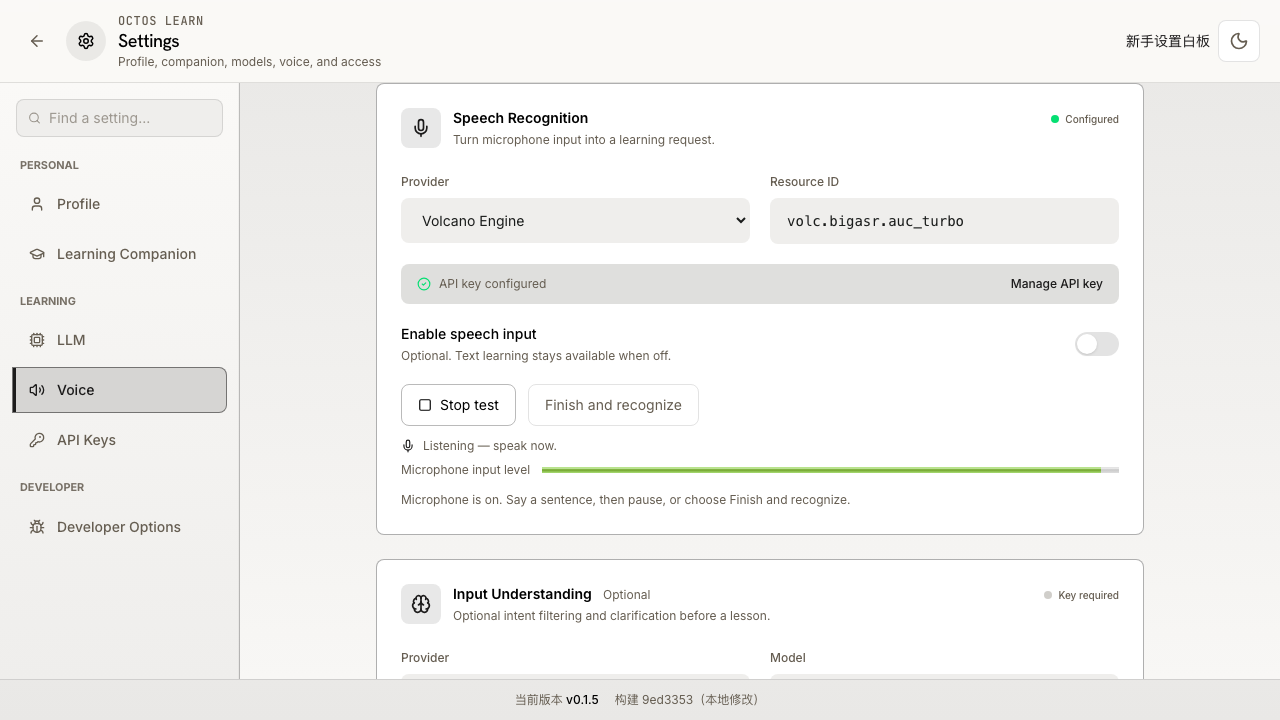
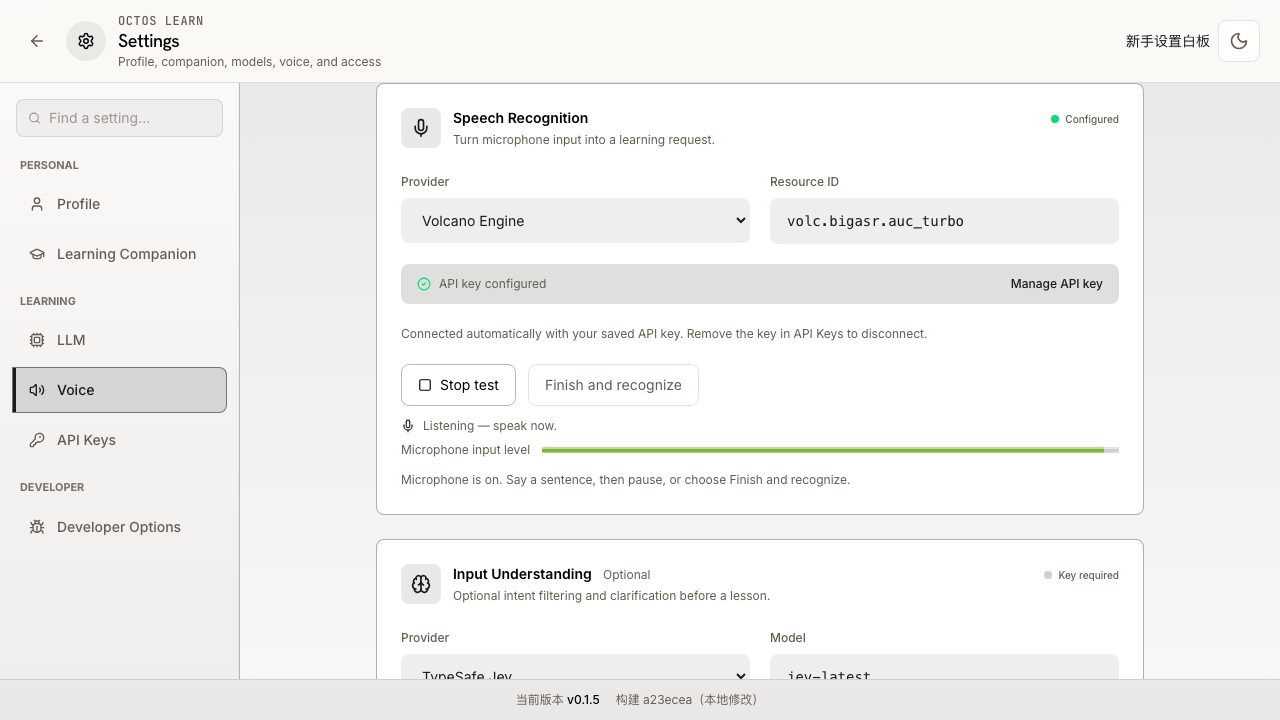
Connect BYOK services when credentials are saved

diff --git a/src/settings/voice-tab.tsx b/src/settings/voice-tab.tsx
@@ -7,13 +7,13 @@ import { formatSettingsError, type Profile } from "./settings-api";
 import { VolcanoVoiceSelect } from "./volcano-voice-select";
 import { VoiceServiceTest } from "./voice-service-test";
 
-interface ServiceForm { enabled: boolean; params: Record<string, string> }
+interface ServiceForm { params: Record<string, string> }
 type VoiceForm = Record<Capability, ServiceForm>;
 const icons = { tts: Volume2, asr: Mic, admission: Brain };
 const inputClass = "w-full rounded-xl bg-surface-container px-4 py-3 text-sm text-text placeholder-muted/50 outline-none border border-transparent focus:border-accent/30 disabled:opacity-50 transition";
 const labelClass = "mb-2 block text-xs font-medium text-muted";
 function serviceForm(capability: Capability, saved?: ServiceMetadata): ServiceForm {
-  return { enabled: supportsService(capability, saved) && !!saved?.enabled, params: serviceParams(capability, saved) };
+  return { params: serviceParams(capability, saved) };
 }
 function initialForm(metadata: ServiceMetadataMap): VoiceForm {
   return Object.fromEntries(SERVICE_CAPABILITIES.map(capability => [capability, serviceForm(capability, metadata[capability])])) as VoiceForm;
@@ -49,13 +49,12 @@ function VoiceEditor({ initialMetadata }: { initialMetadata: ServiceMetadataMap 
         const current = metadata[capability];
         const draft = form[capability];
         if (!supportsService(capability, current)) throw new Error(`Replace the ${SERVICE_DEFINITIONS[capability].title} credential in API Keys first.`);
-        if (draft.enabled && !current?.has_credential) throw new Error(`Add the ${SERVICE_DEFINITIONS[capability].keyLabel} in API Keys first.`);
-        if (draft.enabled && capability !== "admission" && !draft.params.resource_id.trim()) throw new Error("Enter an enabled resource ID before enabling speech.");
-        if (draft.enabled && capability === "tts" && !draft.params.voice.trim()) throw new Error("Enter a voice ID before enabling narration.");
+        if (current?.has_credential && capability !== "admission" && !draft.params.resource_id.trim()) throw new Error("Enter a resource ID for your speech service.");
+        if (current?.has_credential && capability === "tts" && !draft.params.voice.trim()) throw new Error("Choose a voice for narration.");
       }
       for (const capability of dirty) {
         const params = Object.fromEntries(Object.entries(form[capability].params).map(([name, value]) => [name, value.trim()]));
-        const next = await saveClientService(capability, { provider: SERVICE_DEFINITIONS[capability].provider, enabled: form[capability].enabled, params }, metadata[capability]?.revision);
+        const next = await saveClientService(capability, { provider: SERVICE_DEFINITIONS[capability].provider, enabled: !!metadata[capability]?.has_credential, params }, metadata[capability]?.revision);
         if (!next) throw new Error("Configuration changed. Reload the page before saving again.");
         const nextForm = serviceForm(capability, next);
         setMetadata(previous => ({ ...previous, [capability]: next }));
@@ -96,15 +95,10 @@ function VoiceEditor({ initialMetadata }: { initialMetadata: ServiceMetadataMap 
             <span className="flex items-center gap-2 text-xs text-muted">{hasKey ? <CheckCircle2 size={14} className="shrink-0 text-green-400" /> : <KeyRound size={14} className="shrink-0 text-amber-400" />}{hasKey ? "API key configured" : !compatible ? "Update the previous credential in API Keys" : "Add your own API key to connect"}</span>
             <a href="/settings?tab=api-keys#speech-services" className="text-xs font-medium text-accent hover:underline">{hasKey ? "Manage API key" : "Set up API key"}</a>
           </div>
-          <div className="flex items-center justify-between gap-4">
-            <div><p className="text-sm font-medium text-text-strong">{capability === "tts" ? "Enable narration" : capability === "asr" ? "Enable speech input" : "Enable input understanding"}</p><p className="mt-1 text-xs text-muted">{capability === "admission" ? "When off or unavailable, learning continues without Jev." : "Optional. Text learning stays available when off."}</p></div>
-            <button type="button" role="switch" aria-label={`Enable ${definition.title}`} aria-checked={draft.enabled} disabled={!hasKey}
-              onClick={() => update(capability, { enabled: !draft.enabled })}
-              className={`relative h-6 w-11 shrink-0 rounded-full transition disabled:opacity-30 ${draft.enabled ? "bg-accent" : "bg-border"}`}><span className={`absolute left-0.5 top-0.5 h-5 w-5 rounded-full bg-white shadow transition-transform ${draft.enabled ? "translate-x-5" : "translate-x-0"}`} /></button>
-          </div>
+          <p className="text-xs leading-5 text-muted">{hasKey ? "Connected automatically with your saved API key. Remove the key in API Keys to disconnect." : "Optional. Save your API key to connect; text learning remains available without it."}</p>
         </fieldset>
         <div className="mt-5"><VoiceServiceTest key={JSON.stringify([current?.revision, draft])} capability={capability}
-          draft={{ provider: definition.provider, enabled: draft.enabled, params: draft.params, revision: current?.revision ?? "draft", execution_target: "client" }} disabled={!hasKey || saving} /></div>
+          draft={{ provider: definition.provider, enabled: hasKey, params: draft.params, revision: current?.revision ?? "draft", execution_target: "client" }} disabled={!hasKey || saving} /></div>
       </section>;
     })}
     <div className="flex items-start gap-2 rounded-xl bg-surface-dark/50 px-4 py-3 text-xs leading-5 text-muted">

diff --git a/src/byok/service-settings.tsx b/src/byok/service-settings.tsx
@@ -36,7 +36,6 @@ function ServiceCard({ capability, collapsed, saved, onSaved }: { capability: Ca
     name === "auth_mode" ? "api-key" : saved?.provider === provider ? saved.params[name] ?? value : value,
   ])));
   const [key, setKey] = useState("");
-  const [enabled, setEnabled] = useState(saved?.enabled ?? capability !== "admission");
   const [busy, setBusy] = useState(false);
   const [message, setMessage] = useState("");
   const [audio, setAudio] = useState<Blob | null>(null);
@@ -58,8 +57,8 @@ function ServiceCard({ capability, collapsed, saved, onSaved }: { capability: Ca
   async function save() {
     setBusy(true); setMessage("");
     try {
-      if (needsNewKey && enabled && !key.trim()) { setMessage("请填写火山新版 API Key，旧凭据不能继续使用。"); return; }
-      await saveClientService(capability, { provider, enabled, params, key: key.trim() || (needsNewKey ? "" : undefined) }, saved?.revision);
+      if (needsNewKey && !key.trim()) { setMessage("请填写火山新版 API Key，旧凭据不能继续使用。"); return; }
+      await saveClientService(capability, { provider, enabled: !!key.trim() || !!saved?.has_credential, params, key: key.trim() || (needsNewKey ? "" : undefined) }, saved?.revision);
       setKey(""); setMessage("已保存；是否可用以当前设备真实测试为准。"); onSaved();
     } catch { setMessage("保存失败，请重新读取配置后重试；输入仍保留。不能用平台 Key 代替。"); }
     finally { setBusy(false); }
@@ -93,7 +92,7 @@ function ServiceCard({ capability, collapsed, saved, onSaved }: { capability: Ca
   }
   const field = (name: string, label: string) => <label className="block space-y-2" key={name}>{label}<input className={inputClass} value={params[name] ?? ""} onChange={event => { setParams(value => ({ ...value, [name]: event.target.value })); setMessage(""); setAudio(null); }} autoComplete="off" spellCheck={false} /></label>;
   const content = <div className="space-y-4">
-    <p>{capability === "admission" ? "帮助过滤无关口语、判断是否需要补充问题。未配置、关闭或不可用时跳过，其他能力照常工作。" : "可选；未配置时仍可继续文字学习。"}</p>
+    <p>{capability === "admission" ? "帮助过滤无关口语、判断是否需要补充问题。保存 Key 后自动使用；未配置或不可用时跳过，其他能力照常工作。" : "保存 Key 后自动使用；未配置时仍可继续文字学习。"}</p>
     <p>供应商：{capability === "admission" ? "TypeSafe Jev" : "火山引擎 · 新版 API Key"}</p>
     <p>{window.OctosNativeByok ? "本机通过原生网络直连供应商。" : "当前网页接口不支持所需跨域调用，将经服务器转发；语音录音和 Jev 输入会经过服务器。"}</p>
     {needsNewKey && <p role="alert">原供应商或旧版鉴权已不再支持，请填写火山新版 API Key 后保存。</p>}
@@ -102,8 +101,7 @@ function ServiceCard({ capability, collapsed, saved, onSaved }: { capability: Ca
     <label className="block space-y-2">API Key<input className={inputClass} type="password" autoComplete="new-password" spellCheck={false} value={key} onChange={event => setKey(event.target.value)} placeholder={saved?.has_credential && saved.provider === provider && !needsNewKey ? "本人凭据已保存；留空保留" : "粘贴你自己的 Key"} /></label>
     {provider === "volcano" && <p>请使用豆包语音控制台的新版 API Key；火山方舟 Ark / 大模型 Key 和旧版 Access Token 不能用于语音服务。</p>}
     <p>凭据保存在 Octos 账号中，按用途同步到本人设备；退出会清理本机会话缓存。<a href={SERVICE_DEFINITIONS[capability].consoleUrl} target="_blank" rel="noreferrer">打开供应商控制台</a></p>
-    <label><input type="checkbox" checked={enabled} onChange={event => setEnabled(event.target.checked)} /> 启用此能力</label>
-    <p role="status">{saved && !saved.enabled ? "账号已保存，当前已停用。" : status.detail}</p>
+    <p role="status">{saved?.has_credential && !needsNewKey ? "本人 Key 已保存，服务已连接；无需额外启用。" : status.detail}</p>
     <div className="flex flex-wrap gap-3">
       <button disabled={busy} onClick={() => void save()}>保存配置</button>
       {capability !== "asr" && <button disabled={busy} onClick={() => void test()}>{busy ? "测试中…" : capability === "tts" ? "测试草稿并试听" : "测试 Jev 草稿"}</button>}

diff --git a/tests/voice-settings.spec.ts b/tests/voice-settings.spec.ts
@@ -55,7 +55,7 @@ async function mockVoiceAccount(page: Page, initial: Record<string, Service> = {
   return { services, writes, relay };
 }
 
-test("configures Voice through Learning and API Keys without implicit tests or activation", async ({ page }) => {
+test("saving a key connects Voice without another switch or an implicit supplier test", async ({ page }) => {
   const { services, writes, relay } = await mockVoiceAccount(page);
   await page.goto("/settings?tab=voice");
   const tts = page.getByRole("region", { name: "Text to Speech" });
@@ -74,7 +74,7 @@ test("configures Voice through Learning and API Keys without implicit tests or a
   await page.getByRole("button", { name: "Save Changes" }).click();
   await expect(page.getByRole("button", { name: "Saved" })).toBeVisible();
   expect(writes).toHaveLength(2); expect(relay).toHaveLength(0);
-  expect(services.tts.enabled).toBe(false); expect(services.admission.enabled).toBe(false);
+  expect(services.tts.enabled).toBe(true); expect(services.admission.enabled).toBe(true);
   expect(await page.getByLabel("Volcano TTS API Key").inputValue()).toBe("••••••••");
   await keys.scrollIntoViewIfNeeded();
   await page.screenshot({ path: "docs/byok-migration-2026-10-19/voice-api-keys-desktop.png" });
@@ -84,7 +84,7 @@ test("configures Voice through Learning and API Keys without implicit tests or a
   await expect(tts.getByLabel("Voice ID", { exact: true })).toBeEnabled();
   await expect(tts.getByRole("option", { name: "Vivi 2.0", exact: true })).toHaveCount(1);
   await tts.getByLabel("Voice ID", { exact: true }).selectOption("zh_female_vv_uranus_bigtts");
-  await tts.getByRole("switch").check();
+  await expect(tts.getByRole("switch")).toHaveCount(0);
   await page.getByRole("button", { name: "Save Changes" }).click();
   await expect(page.getByRole("button", { name: "Saved" })).toBeVisible();
   expect(writes).toHaveLength(3);
@@ -96,7 +96,7 @@ test("configures Voice through Learning and API Keys without implicit tests or a
   await jev.getByRole("button", { name: "Test connection" }).click();
   await expect(jev.getByText("Jev connected successfully.")).toBeVisible();
   expect(relay).toHaveLength(1);
-  expect(services.admission.enabled).toBe(false);
+  expect(services.admission.enabled).toBe(true);
   expect(writes).toHaveLength(3);
   await page.setViewportSize({ width: 390, height: 844 });
   await tts.scrollIntoViewIfNeeded();
@@ -109,6 +109,23 @@ test("configures Voice through Learning and API Keys without implicit tests or a
 
 
 test.describe("browser microphone runtime", () => {
+
+  test("a saved ASR key opens whiteboard voice even with a legacy off flag", async ({ page }) => {
+    const { relay } = await mockVoiceAccount(page, { asr: { provider: "volcano", enabled: false, key: "synthetic-asr-key", revision: "r1", execution_target: "client", params: { auth_mode: "api-key", resource_id: "volc.bigasr.auc_turbo" } } });
+    await page.addInitScript(() => {
+      localStorage.setItem("octos-learn:setup-skipped:learner", "yes");
+      const state = window as unknown as { openedServiceSetup: boolean };
+      state.openedServiceSetup = false;
+      window.addEventListener("octos:configure-service", () => { state.openedServiceSetup = true; });
+    });
+    const synced = page.waitForResponse(response => new URL(response.url()).pathname === "/api/my/client-services/sync");
+    await page.goto("/board?new-board=1"); await synced;
+    await page.getByRole("button", { name: "启用语音", exact: true }).first().click();
+    await expect(page.getByRole("button", { name: "关闭语音", exact: true }).first()).toBeVisible();
+    expect(await page.evaluate(() => (window as unknown as { openedServiceSetup: boolean }).openedServiceSetup)).toBe(false);
+    await page.getByRole("button", { name: "关闭语音", exact: true }).first().click();
+    expect(relay).toHaveLength(0);
+  });
 
   test("initializes the real ONNX/worklet runtime and releases a synthetic microphone", async ({ page }) => {
     const { relay } = await mockVoiceAccount(page, { asr: { provider: "volcano", enabled: false, key: "synthetic-asr-key", revision: "r1", execution_target: "client", params: { auth_mode: "api-key", resource_id: "volc.bigasr.auc_turbo" } } });

diff --git a/src/settings/voice-tab.test.tsx b/src/settings/voice-tab.test.tsx
@@ -36,7 +36,7 @@ describe("BYOK voice settings", () => {
     show(); const region = await screen.findByRole("region", { name: "Text to Speech" });
     fireEvent.change(within(region).getByLabelText("Custom Voice ID"), { target: { value: "new-voice" } });
     fireEvent.click(screen.getByRole("button", { name: "Save Changes" }));
-    await waitFor(() => expect(state.save).toHaveBeenCalledWith("tts", { provider: "volcano", enabled: false, params: { auth_mode: "api-key", resource_id: "seed-tts-2.0", voice: "new-voice" } }, "r1"));
+    await waitFor(() => expect(state.save).toHaveBeenCalledWith("tts", { provider: "volcano", enabled: true, params: { auth_mode: "api-key", resource_id: "seed-tts-2.0", voice: "new-voice" } }, "r1"));
     expect(state.save).toHaveBeenCalledOnce();
     await screen.findByRole("button", { name: "Saved" });
     expect(state.synthesize).not.toHaveBeenCalled(); expect(state.mic).not.toHaveBeenCalled();
@@ -49,12 +49,13 @@ describe("BYOK voice settings", () => {
     expect(screen.getByRole("button", { name: "Save Changes" })).toHaveProperty("disabled", true);
     expect(state.save).not.toHaveBeenCalled();
   });
-  it("can explicitly test a disabled service without saving or enabling it", async () => {
+  it("uses a previously saved key without an activation switch and keeps tests separate from saving", async () => {
     show(); const region = await screen.findByRole("region", { name: "Text to Speech" });
     fireEvent.click(within(region).getByRole("button", { name: "Test voice" }));
     await screen.findByText("Voice synthesized and played successfully.");
     expect(state.synthesize.mock.calls[0][2]).toMatchObject({ key: "synthetic-own-key", enabled: true });
-    expect(within(region).getByRole("switch").getAttribute("aria-checked")).toBe("false");
+    expect(within(region).queryByRole("switch")).toBeNull();
+    expect(within(region).getByText(/Connected automatically/)).toBeTruthy();
     expect(state.save).not.toHaveBeenCalled();
   });
   it("preserves unsaved parameters after a failed test", async () => {
@@ -75,10 +76,10 @@ describe("BYOK voice settings", () => {
     fireEvent.change(within(region).getByLabelText("Custom Voice ID"), { target: { value: "another-voice" } });
     expect(signal?.aborted).toBe(true);
   });
-  it("keeps tests and activation disabled without an API Key", async () => {
+  it("keeps paid tests unavailable until an API Key is saved", async () => {
     state.list.mockResolvedValue({ profile_id: "alice", services: {} }); show();
     const region = await screen.findByRole("region", { name: "Text to Speech" });
-    expect(within(region).getByRole("switch")).toHaveProperty("disabled", true);
+    expect(within(region).queryByRole("switch")).toBeNull();
     expect(within(region).getByRole("button", { name: "Test voice" })).toHaveProperty("disabled", true);
     expect(within(region).getByRole("link", { name: "Set up API key" })).toBeTruthy();
   });

diff --git a/src/byok/services.ts b/src/byok/services.ts
@@ -66,7 +66,7 @@ export function getService(capability: Capability): ClientService | undefined {
 }
 export function getServiceStatus(capability: Capability): CapabilityStatus {
   ensureIdentity();
-  return states[capability] ?? { state: "unconfigured", detail: `${names[capability]}尚未启用，可在设置中连接本人服务或启用已保存配置。` };
+  return states[capability] ?? { state: "unconfigured", detail: `${names[capability]}尚未配置，请在设置中保存本人服务 Key。` };
 }
 export function setLessonConfigured(value: boolean): void { ensureIdentity(); lessonConfigured = value; emit(); }
 export function getLessonConfigured(): boolean | undefined { ensureIdentity(); return lessonConfigured; }
@@ -89,15 +89,19 @@ export function prepareClientServices(force = false): Promise<void> {
       for (const capability of ["asr", "tts", "admission"] as const) {
         const value = snapshots[capability];
         const old = states[capability];
-        if (!value?.key || !value.enabled) { delete snapshots[capability]; delete states[capability]; }
-        else if (!old || previous[capability]?.revision !== value.revision) states[capability] = { state: "configured_unverified", detail: "账号已配置，此设备尚未验证。" };
+        if (!value?.key?.trim()) { delete snapshots[capability]; delete states[capability]; }
+        else {
+          // Key presence is the activation intent, including previously saved/off records.
+          snapshots[capability] = { ...value, enabled: true };
+          if (!old || previous[capability]?.revision !== value.revision) states[capability] = { state: "configured_unverified", detail: "账号已配置，此设备尚未验证。" };
+        }
       }
       emit();
     }).finally(() => { clearTimeout(timeout); if (pending === task) pending = undefined; });
   pending = task;
   return task;
 }
-/** Explicit settings test only. Disabled credentials never enter the active snapshot. */
+/** Explicit settings tests can use saved credentials without persisting test parameters. */
 export async function getServiceForTest(capability: Capability, signal: AbortSignal, expectedRevision?: string): Promise<ClientService | undefined> {
   const owner = identity();
   const cached = getService(capability);

diff --git a/src/settings/api-keys-tab.tsx b/src/settings/api-keys-tab.tsx
@@ -235,7 +235,7 @@ export function ApiKeysTab({ profile, onProfileUpdated }: ApiKeysTabProps) {
         const key = (serviceValues[capability] ?? "").trim();
         const next = await saveClientService(capability, {
           provider: SERVICE_DEFINITIONS[capability].provider,
-          enabled: !!key && supportsService(capability, current) && !!current?.enabled,
+          enabled: !!key,
           params: serviceParams(capability, current), key,
         }, current?.revision);
         if (!next) throw new Error(`Reload ${SERVICE_DEFINITIONS[capability].title} before saving again.`);
@@ -305,7 +305,7 @@ export function ApiKeysTab({ profile, onProfileUpdated }: ApiKeysTabProps) {
                     onChange={value => { setServiceValues(previous => ({ ...previous, [capability]: value })); setSaved(false); setError(null); }} />
                   {capability !== "admission" && <p className="mt-2 px-1 text-xs leading-5 text-muted">Use an API Key from the Doubao Speech console. An Ark / LLM API Key or a legacy Access Token cannot be used here. The same Speech Key can be entered for TTS and ASR if both services are enabled in its project.</p>}
                   <div className="mt-2 flex flex-wrap items-center justify-between gap-2 px-1 text-xs text-muted">
-                    <span>{!supportsService(capability, current) ? "Replace the previous credential with a new Volcano API Key." : "Leave unchanged to keep. Clear and save to remove and disable this service."}</span>
+                    <span>{!supportsService(capability, current) ? "Replace the previous credential with a new Volcano API Key." : "Save a key to connect automatically. Leave unchanged to keep. Clear and save to disconnect."}</span>
                     <a className="inline-flex items-center gap-1 text-accent hover:underline" href={definition.consoleUrl} target="_blank" rel="noreferrer">Get API Key <ExternalLink size={11} /></a>
                   </div>
                 </div>;

diff --git a/src/byok/services.test.ts b/src/byok/services.test.ts
@@ -54,11 +54,18 @@ describe("owner-scoped client snapshots", () => {
     expect(getService("tts")?.key).toBe("alice-own-key");
   });
 
-  it("excludes disabled credentials from runtime but allows an explicit settings test", async () => {
+  it("connects saved keys even when an older server reports an off flag", async () => {
     const value = configured(); value.services.tts.enabled = false;
     api.request.mockResolvedValue(value); await prepareClientServices();
-    expect(getService("tts")).toBeUndefined();
+    expect(getService("tts")).toMatchObject({ key: "alice-own-key", enabled: true });
     expect((await getServiceForTest("tts", new AbortController().signal))?.key).toBe("alice-own-key");
+    expect(getServiceStatus("tts").state).toBe("configured_unverified");
+    expect(api.request).toHaveBeenCalledOnce();
+  });
+  it("disconnects an empty key even when an older server reports an on flag", async () => {
+    api.request.mockResolvedValue(configured()); await prepareClientServices();
+    expect(getService("tts")?.key).toBe("alice-own-key");
+    api.request.mockResolvedValue(configured("")); await prepareClientServices(true);
     expect(getService("tts")).toBeUndefined();
     expect(getServiceStatus("tts").state).toBe("unconfigured");
   });

diff --git a/src/settings/api-keys-tab.test.tsx b/src/settings/api-keys-tab.test.tsx
@@ -133,12 +133,12 @@ describe("ApiKeysTab", () => {
     expect("OPENAI_API_KEY" in patch.env_vars).toBe(false);
     expect(patch.env_vars.SERPER_API_KEY).toBe("se***er");
   });
-  it("saves speech keys separately from env vars without automatically enabling a service", async () => {
+  it("saving a speech key connects the service without changing model env vars", async () => {
     render(<ApiKeysTab profile={baseProfile} onProfileUpdated={() => {}} />);
     const input = await screen.findByLabelText("Volcano TTS API Key");
     fireEvent.change(input, { target: { value: "synthetic-own-speech-key" } });
     fireEvent.click(screen.getByRole("button", { name: "Save Changes" }));
-    await waitFor(() => expect(serviceMocks.save).toHaveBeenCalledWith("tts", expect.objectContaining({ provider: "volcano", key: "synthetic-own-speech-key", enabled: false }), undefined));
+    await waitFor(() => expect(serviceMocks.save).toHaveBeenCalledWith("tts", expect.objectContaining({ provider: "volcano", key: "synthetic-own-speech-key", enabled: true }), undefined));
     await screen.findByRole("button", { name: "Saved" });
     expect(input).toHaveProperty("value", "••••••••");
     expect(apiMocks.updateMyProfileConfig).not.toHaveBeenCalled();

diff --git a/tests/byok-settings.spec.ts b/tests/byok-settings.spec.ts
@@ -32,7 +32,7 @@ test("saves optional BYOK services without requesting platform grants or paid te
   await tts.getByLabel("API Key").fill("synthetic-byok-canary");
   await tts.getByRole("button", { name: "保存配置" }).click();
   await expect.poll(() => writes.length).toBe(1);
-  expect(writes[0]).toMatchObject({ provider: "volcano", key: "synthetic-byok-canary", expected_revision: null });
+  expect(writes[0]).toMatchObject({ provider: "volcano", key: "synthetic-byok-canary", enabled: true, expected_revision: null });
   await page.setViewportSize({ width: 960, height: 540 });
   await page.screenshot({ path: "docs/byok-migration-2026-10-19/onboarding-960x540.png", fullPage: true });
   expect(forbidden).toEqual([]); expect(paid).toEqual([]);

diff --git a/docs/FULL_BYOK_IMPLEMENTATION_STATUS.md b/docs/FULL_BYOK_IMPLEMENTATION_STATUS.md
@@ -10,13 +10,13 @@
 
 ## 已实现
 
-1. Octos 新增 `/api/my/client-services` 管理面：分别保存 ASR、TTS、可选 Jev 的供应商、参数、启用状态、版本及本人 Key。普通读取只返回凭据存在状态；显式 POST sync 才返回当前身份用于客户端执行的本人凭据，不导出模型环境变量、不继承平台 / 父账号凭据。变更要求匹配版本，避免旧表单覆盖新配置。
+1. Octos 新增 `/api/my/client-services` 管理面：分别保存 ASR、TTS、可选 Jev 的供应商、参数、版本及本人 Key。有 Key 即接入，enabled 仅为兼容派生字段；旧的已保存 / 未启用记录读取时直接兼容，不修改 Key、参数或版本。普通读取只返回凭据存在状态；显式 POST sync 才返回当前身份用于客户端执行的本人凭据，不导出模型环境变量、不继承平台 / 父账号凭据。变更要求匹配版本，避免旧表单覆盖新配置。
 2. 直连凭据存储在 Octos registry 根目录下的独立存储，不进入技能工作目录或 profile env_vars。使用 ChaCha20-Poly1305 加密、账号作为关联数据，目录 0700、主密钥 / 数据文件 0600；Unix 之外缺乏权限保障时明确拒绝。主密钥和密文应一起做受限备份；这不能抵御服务器 owner / root 权限失陷。
 3. 浏览器运行快照仅保存在会话内存，按登录身份隔离；登录 / 设置生命周期同步，业务请求不逐句获取 Key。退出或换账号取消任务并清除内存。单能力变更只取消相应任务；其他能力的快照、测试状态与正在执行的工作保留。同源跨标签页只广播非秘密配置变更标记。
 4. 首期语音仅支持火山新版 API Key，移除 Azure 适配与旧版鉴权选择。电视通过受限原生桥接直连固定 ASR / TTS / Jev 官方地址；原生语音只允许新版鉴权头。
 5. 网页直连受限时允许走现有 VPS。当前火山新版鉴权与 Jev 均未通过浏览器预检，网页直接使用 `/api/my/client-services/{capability}/relay`，不先失败一次付费直连请求。Relay 校验本人身份，仅转发显式传入的本人同步凭据或未保存测试草稿，不读取平台 / 父账号凭据、不接受任意 URL、不跟随重定向、不自动重试；响应禁缓存，错误正文脱敏，限制请求 / 响应体、并发与超时。
-6. 网页 ASR 的 WAV 可经认证 relay 转发给火山，不写入服务器课程 / 语音缓存；最终文字和必要图片仍进入现有学习流程。Jev 的网页 relay 与电视直连均使用本人 Key；未配置 / 关闭 / 调用失败时跳过，不领取平台 grant、不另调 Gemini 模拟。旧 Android 共享配置在加载时清除。
-7. 设置页 Voice 已移动到 Learning，与 LLM、API Keys 并列；Voice 按统一卡片管理 ASR / TTS / Jev 参数、启用状态和测试，API Keys 的 Speech & Learning 分组集中管理三项本人凭据。Save Changes 仅保存变更，Reset 恢复原值；不更换未修改的 Key，清空凭据会停用对应能力。Onboarding / 白板内提示保留按用途配置入口。保存和测试分离，测试草稿不覆盖工作配置，显式测试提示供应商用量；录音测试有停止与超时、离开清理。旁白区分合成与播放，已生成音频可重播。账号已保存不等于本机已验证。旧 Azure / App ID 配置迁移须重新录入火山新版 Key，不复用旧 Token；页面明确说明网页录音与 Jev 输入会经过服务器。
+6. 网页 ASR 的 WAV 可经认证 relay 转发给火山，不写入服务器课程 / 语音缓存；最终文字和必要图片仍进入现有学习流程。Jev 的网页 relay 与电视直连均使用本人 Key；未配置 / 调用失败时跳过，不领取平台 grant、不另调 Gemini 模拟。旧 Android 共享配置在加载时清除。
+7. 设置页 Voice 已移动到 Learning，与 LLM、API Keys 并列；Voice 按统一卡片管理 ASR / TTS / Jev 参数和测试，API Keys 的 Speech & Learning 分组集中管理三项本人凭据。移除 Voice、onboarding 与白板配置弹窗中的额外启用开关，保存 Key 即接入；清空或删除 Key 才停用。Save Changes 仅保存变更，Reset 恢复原值；不更换未修改的 Key。保存不自动测试或打开麦克风，测试草稿不覆盖工作配置，显式测试提示供应商用量；录音测试有停止与超时、离开清理。旁白区分合成与播放，已生成音频可重播。账号已保存不等于本机已验证。旧 Azure / App ID 配置迁移须重新录入火山新版 Key，不复用旧 Token；页面明确说明网页录音与 Jev 输入会经过服务器。
 8. 白板内可打开配置对话框，保留当次输入 / 选区；返回后由用户主动继续，不自动提交付费课程或恢复麦克风。首次设置的可选表单折叠，Jev 无强制填写条件。
 9. 移除开发代理中的 Jev Key 注入和客户端平台 grant 获取。公网 / Android 构建停用旧托管语音与私有语音开关。Nginx 示例在正式切换时关闭旧语音、Jev、私有 ASR 路由，并为旧 APK 的 native-config 返回无凭据的 disabled 响应。
 10. 检查模型测试接口时发现读取保存 Key 的辅助函数缺少目标 profile 授权检查，已补上，并增加跨账号拒绝测试；没有改动模型生成协议或增加模型请求。
@@ -25,13 +25,13 @@
 
 自动测试全部使用合成凭据和模拟供应商；没有用平台 Key 冒充个人接入。运行日志位于本机 `/private/tmp/octos-byok-*.log` 与 `/private/tmp/octos-voice-settings-*.log`，最终结果以本轮交付说明为准。
 
-- Octos：`cargo test -p octos-cli --no-default-features --features api client_services --lib`，覆盖加密 / 防密文跨账号复制、掩码元数据、本人显式同步、删除、旧版本拒绝、无平台回退及模型 Key 跨账号探测拒绝；共 7 项定向测试通过，新增 relay 固定地址 / 新版鉴权、成功响应、错误脱敏、超时及大小限制覆盖。`cargo check` 通过。
-- 前端：Vitest 全量 1,160 项通过、TypeScript 通过、ESLint 0 errors / 37 warnings；其中旧的“私有优先 / 平台兜底”产品断言已替换为 BYOK 直连、取消、静音、图片并发和禁止 WAV 上传断言；保留纯函数、回放与上下文检查。
+- Octos：`cargo test -p octos-cli --no-default-features --features api client_services --lib`，覆盖加密 / 防密文跨账号复制、掩码元数据、本人显式同步、删除、旧版本拒绝、无平台回退及模型 Key 跨账号探测拒绝；共 8 项定向测试通过，包含 Key 即接入、旧未启用记录兼容、清空 Key 停用，以及 relay 固定地址 / 新版鉴权、成功响应、错误脱敏、超时及大小限制覆盖。`cargo check` 通过。
+- 前端：Vitest 全量 1,161 项通过、TypeScript 通过、ESLint 0 errors / 37 warnings；其中旧的“私有优先 / 平台兜底”产品断言已替换为 BYOK 直连、取消、静音、图片并发和禁止 WAV 上传断言；保留纯函数、回放与上下文检查。
 - 本机真实候选服务器 HTTP 检查：无认证同步被拒绝、普通 profile / 元数据不返回 Key、显式本人同步与删除正常；仅使用合成凭据，无供应商请求。预览使用独立临时 profile，不复用线上账号或数据。
-- Chromium：`tests/byok-settings.spec.ts` 与 `tests/voice-settings.spec.ts`，覆盖 Voice / API Keys 跨页面配置、关闭服务显式测试及窄屏无溢出；保存配置不领取平台凭据、不暗中测试、不将 Key 写入 localStorage；显式 Jev 草稿测试经认证 relay 发送本人 Key。新增真实 ONNX / AudioWorklet 初始化测试，使用 Chromium 合成麦克风，验证录音开始、停止后轨道释放，不使用本人真实麦克风或调用供应商。
+- Chromium：`tests/byok-settings.spec.ts` 与 `tests/voice-settings.spec.ts`，覆盖 Voice / API Keys 跨页面配置、配置 Key 即接入及窄屏无溢出；保存配置不领取平台凭据、不暗中测试、不将 Key 写入 localStorage；旧未启用 ASR 记录可直接进入白板语音，不再弹配置窗口。显式 Jev 草稿测试经认证 relay 发送本人 Key。真实 ONNX / AudioWorklet 初始化测试使用 Chromium 合成麦克风，验证录音开始、停止后轨道释放，不使用本人真实麦克风或调用供应商。
 - Vite 常规、公网构建；Android Java 编译、Android 资源构建及 debug APK 打包。候选 APK 未安装至真实电视。
 
-设置页记录：[Voice 桌面](byok-migration-2026-10-19/voice-settings-desktop.png)、[API Keys 语音分组](byok-migration-2026-10-19/voice-api-keys-desktop.png)、[Voice 窄屏](byok-migration-2026-10-19/voice-settings-mobile.png)。保存 Key 不自动启用，显式测试停用服务仅临时取本人凭据；运行快照仍排除停用服务。
+设置页记录：[Voice 桌面](byok-migration-2026-10-19/voice-settings-desktop.png)、[API Keys 语音分组](byok-migration-2026-10-19/voice-api-keys-desktop.png)、[Voice 窄屏](byok-migration-2026-10-19/voice-settings-mobile.png)。保存 Key 自动接入，无额外服务开关；白板开始 / 结束语音仍由用户主动点击，不随配置保存自动录音。
 
 页面记录：[桌面 onboarding](byok-migration-2026-10-19/onboarding-desktop.png)、[960×540 视口](byok-migration-2026-10-19/onboarding-960x540.png)。后者是浏览器视口检查，不是电视实机验收。
 
@@ -44,7 +44,7 @@
 - 录音失败会区分权限被拒、无设备、设备占用 / 读取失败与 VAD 初始化失败；设置测试显示当次失败原因，不再统一误报权限。修复首次设置测试因初始化身份通知而取消自身的顺序问题。
 - 语音测试明确提示使用豆包语音控制台的 Key，API Keys / onboarding 直接链接到新版语音 Key 页面；方舟 Ark / LLM Key 不用于语音接口。HTTP 401 提示 Key 的来源、停用状态与项目服务开通检查，不回显供应商错误正文或凭据。
 - ASR 测试区分麦克风准备、正在录音、正在识别，录音中显示输入电平与检测状态。网页可点击 Finish and recognize 提交当前录音，无须依赖 VAD 自动切句；自动切句仍保留。20 秒结束分别提示没有音频帧、无声 / 音量低或未检测到一句话结束，不再当作供应商超时。原生电视保留其语音分段路径。
-- 手动测试 PCM 仅在端内暂存，最长 20 秒，提交后 / 取消 / 离开即清理；不持久化，不改变课堂语音的分段阈值或课程生成请求。五项 Chromium 回归通过，其中使用持续合成音验证真实 ONNX / worklet 输出非零 PCM、输入电平可见、手动编码为 16 kHz WAV 并经模拟 ASR relay 返回文字，以及取消释放麦克风且不发送请求。本人设备为何未自动切句仍需观察新电平 / 状态提示；没有使用错误的 Ark Key 重试付费请求，也未声称真实火山识别已验收。
+- 手动测试 PCM 仅在端内暂存，最长 20 秒，提交后 / 取消 / 离开即清理；不持久化，不改变课堂语音的分段阈值或课程生成请求。六项 Chromium 回归通过，其中使用持续合成音验证真实 ONNX / worklet 输出非零 PCM、输入电平可见、手动编码为 16 kHz WAV 并经模拟 ASR relay 返回文字，以及取消释放麦克风且不发送请求。本人设备为何未自动切句仍需观察新电平 / 状态提示；没有使用错误的 Ark Key 重试付费请求，也未声称真实火山识别已验收。
 
 录音状态记录：[Voice 麦克风测试](byok-migration-2026-10-19/voice-microphone-test-desktop.png)。
 
